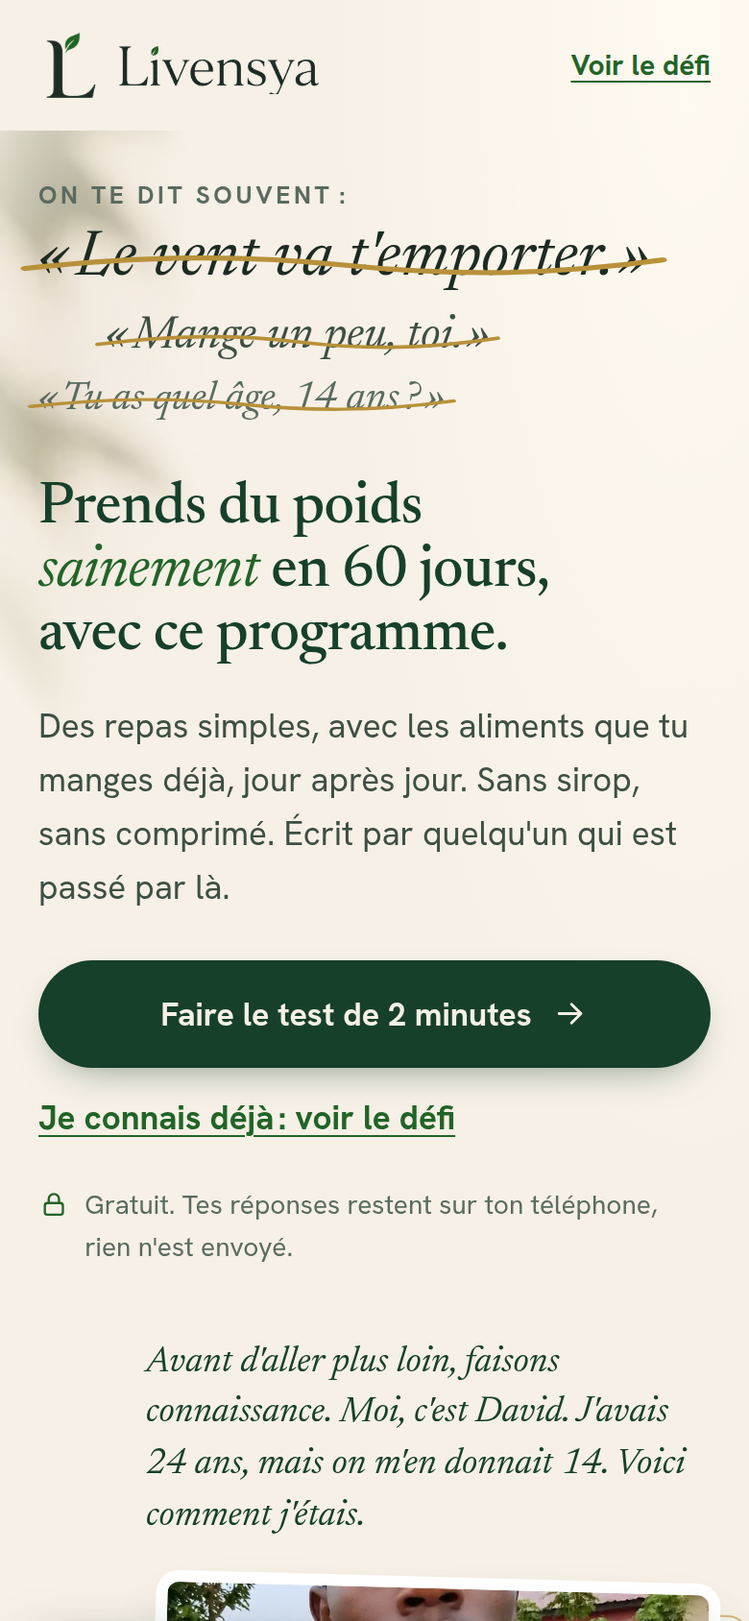
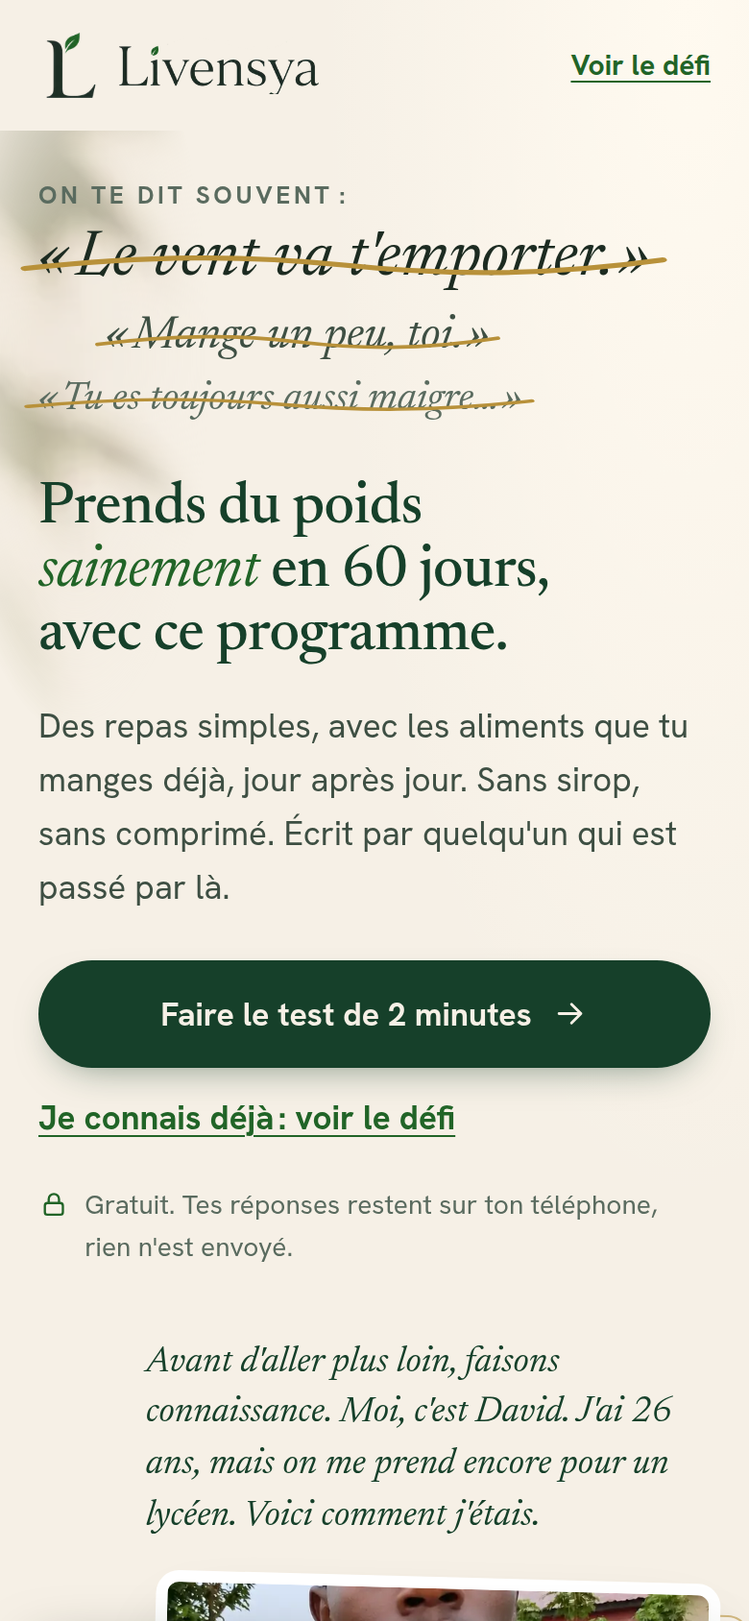
Livensya : tunnel v4 (fidèle au livre : David 26 ans ; widget de paiement Chariow en fenêtre, chargé en différé, avec repli)
Claude-Session: https://claude.ai/code/session_01SDp3TmwNu6wkPxHhoSS3B7

Changed region(s): [[0.1846, 0.8626, 0.9231, 0.955], [0.2154, 0.2156, 0.6769, 0.2773], [0.1538, 0.2156, 0.1846, 0.2773]]

diff --git a/sites/livensya/js/app.js b/sites/livensya/js/app.js
@@ -2,10 +2,13 @@
    ------------------------------------------------------------------
    RÉGLAGES (les seules lignes à modifier) */
 
-/* Lien de paiement Chariow du produit prd_4bisyd7x.
-   Valeur provisoire : la boutique. Lien direct probable (vu sur la boutique, à confirmer) :
-   https://ykhzgspm.mychariow.store/prd_4bisyd7x/checkout */
-const LIEN_PAIEMENT = 'https://ykhzgspm.mychariow.store';
+/* Paiement : le widget Chariow (dans la carte de l'offre) est la voie principale.
+   LIEN_PAIEMENT ne sert que de repli si le widget n'a pas pu se charger (réseau, bloqueur) :
+   page de paiement Chariow du produit prd_4bisyd7x (vérifiée : elle répond). */
+const LIEN_PAIEMENT = 'https://ykhzgspm.mychariow.store/prd_4bisyd7x/checkout';
+const WIDGET_JS = 'https://js.chariowcdn.com/v1/widget.min.js';
+const WIDGET_CSS = 'https://js.chariowcdn.com/v1/widget.min.css';
+const DELAI_REPLI_MS = 6000;
 
 /* Vidéo faceless (HyperFrames) : laisse vide tant que le fichier n'existe pas.
    Exemple : 'videos/defi-60-jours.mp4' et 'videos/affiche.webp' */
@@ -48,7 +51,52 @@ function envoyerLead(donnees) {
   var ICONE_COCHE = '<svg viewBox="0 0 24 24" aria-hidden="true"><path d="M5 12.5l4.5 4.5L19 7.5"/></svg>';
   function icone(id) { return '<svg class="icone" aria-hidden="true"><use href="#' + id + '"/></svg>'; }
 
-  /* ---------------- Liens d'achat ---------------- */
+  /* ---------------- Widget de paiement Chariow ---------------- */
+  var widget = { charge: false, pret: false, attente: [] };
+  function boutonWidget() { var w = document.getElementById('chariow-widget'); return w && w.querySelector('button'); }
+  function chargerWidget() {
+    if (widget.charge) return;
+    widget.charge = true;
+    var w = document.getElementById('chariow-widget');
+    if (!w) return;
+    if (reduit) w.setAttribute('data-cta-animation', 'none');
+    var css = document.createElement('link'); css.rel = 'stylesheet'; css.href = WIDGET_CSS; document.head.appendChild(css);
+    var js = document.createElement('script'); js.src = WIDGET_JS; js.async = true; document.body.appendChild(js);
+    var mo = new MutationObserver(function () {
+      var b = boutonWidget();
+      if (!b || widget.pret) return;
+      widget.pret = true; mo.disconnect();
+      document.getElementById('paiement').classList.add('pret');
+      widget.attente.splice(0).forEach(function (f) { f(); });
+    });
+    mo.observe(w, { childList: true, subtree: true });
+    /* InitiateCheckout : au clic sur le bouton du widget (anti double-clic dans tracking.js) */
+    w.addEventListener('click', function (e) {
+      if (e.target.closest && e.target.closest('button')) suivi.initiateCheckout(PRODUIT);
+    }, true);
+  }
+  function quandWidgetPret(f, siEchec) {
+    if (widget.pret) { f(); return; }
+    var fait = false;
+    widget.attente.push(function () { if (!fait) { fait = true; f(); } });
+    setTimeout(function () { if (!fait) { fait = true; siEchec(); } }, DELAI_REPLI_MS);
+  }
+  function ouvrirPaiement(declencheur) {
+    chargerWidget();
+    var carte = document.getElementById('paiement');
+    if (carte) carte.scrollIntoView({ behavior: reduit ? 'auto' : 'smooth', block: 'center' });
+    if (declencheur) declencheur.setAttribute('aria-busy', 'true');
+    quandWidgetPret(function () {
+      if (declencheur) declencheur.removeAttribute('aria-busy');
+      setTimeout(function () { var b = boutonWidget(); if (b) b.click(); }, reduit ? 0 : 650);
+    }, function () {
+      /* Repli : page de paiement Chariow */
+      suivi.initiateCheckout(PRODUIT);
+      location.href = lienAchat();
+    });
+  }
+
+  /* Liens d'achat : tous mènent au widget (défilement doux puis ouverture du paiement) */
   function lienAchat() {
     var url = LIEN_PAIEMENT;
     var p = new URLSearchParams(location.search), garder = [];
@@ -60,14 +108,17 @@ function envoyerLead(donnees) {
     (racine || document).querySelectorAll('[data-achat]').forEach(function (a) {
       if (a.dataset.branche) return;
       a.dataset.branche = '1';
+      a.href = '#paiement';
+      a.addEventListener('click', function (e) { e.preventDefault(); ouvrirPaiement(a); });
+    });
+    (racine || document).querySelectorAll('[data-achat-direct]').forEach(function (a) {
+      if (a.dataset.branche) return;
+      a.dataset.branche = '1';
       a.href = lienAchat();
       a.addEventListener('click', function (e) {
         var id = suivi.initiateCheckout(PRODUIT);
-        if (id === null) { e.preventDefault(); return; } /* double-clic ignoré */
-        if (suivi.actif) { /* laisse 300 ms au Pixel pour partir */
-          e.preventDefault(); a.setAttribute('aria-busy', 'true');
-          setTimeout(function () { location.href = a.href; }, 300);
-        }
+        if (id === null) { e.preventDefault(); return; }
+        if (suivi.actif) { e.preventDefault(); setTimeout(function () { location.href = a.href; }, 300); }
       });
     });
   }
@@ -101,7 +152,7 @@ function envoyerLead(donnees) {
       titre: function () { return avecPrenom('Enchanté, ', '. ') + 'Depuis quand tu te trouves mince ?'; },
       options: [['enfance', "Depuis toujours, depuis l'enfance"], ['ado', "Depuis l'adolescence"], ['annees', 'Depuis quelques années'], ['recent', "Depuis peu : j'ai perdu du poids sans savoir pourquoi"]] },
     { id: 'phrases', type: 'multi', titre: "Qu'est-ce qu'on te dit le plus souvent ?", aide: 'Choisis tout ce que tu entends.', citations: true,
-      options: [['vent', '« Le vent va t\'emporter. »'], ['mange', '« Mange un peu, toi. »'], ['malade', '« Tu es malade ? »'], ['age', '« Tu as quel âge, 15 ans ? »'], ['maison', '« On ne te donne pas à manger chez toi ? »'], ['rien', "On ne me dit rien, mais je le pense"], ['autre', 'Autre chose']], autre: true },
+      options: [['vent', '« Le vent va t\'emporter. »'], ['mange', '« Mange un peu, toi. »'], ['malade', '« Tu es malade ? »'], ['age', '« On dirait que tu n\'as pas changé depuis le lycée. »'], ['maison', '« On ne te donne pas à manger chez toi ? »'], ['rien', "On ne me dit rien, mais je le pense"], ['autre', 'Autre chose']], autre: true },
     { id: 'blessure', type: 'texte',
       encart: function () { return '<strong>Je comprends.</strong> Moi aussi, j\'ai entendu ces phrases, presque mot pour mot.'; },
       titre: "Quelle est la remarque la plus blessante qu'on t'ait faite, ou le moment le plus gênant que tu as vécu à cause de ton poids ?",
@@ -277,7 +328,7 @@ function envoyerLead(donnees) {
 
   function afficherResultat() {
     var DEPUIS = { enfance: "Depuis l'enfance, tu es le plus mince de la pièce.", ado: "Depuis l'adolescence, tu es « le mince », « la mince ».", annees: 'Depuis quelques années, tu te trouves trop mince.', recent: 'Tu as perdu du poids récemment, sans savoir pourquoi.' };
-    var PHR = { vent: '« Le vent va t\'emporter »', mange: '« Mange un peu »', malade: '« Tu es malade ? »', age: '« Tu as quel âge ? »', maison: '« On ne te donne pas à manger ? »' };
+    var PHR = { vent: '« Le vent va t\'emporter »', mange: '« Mange un peu »', malade: '« Tu es malade ? »', age: '« On dirait que tu n\'as pas changé depuis le lycée »', maison: '« On ne te donne pas à manger ? »' };
     var MIR = { evite: 'Alors tu évites les photos.', cache: 'Alors tu caches ton corps sous des habits larges.', compare: 'Alors tu te compares aux autres, souvent.', ok: 'Ça va, mais tu sens que tu pourrais être mieux dans ton corps.' };
     var ESS = {
       forcer: 'Tu as déjà essayé de te forcer à manger plus. Si ça n\'a pas suffi, ce n\'est pas un manque de volonté : manger plus, sans structure, ne marche pas pour tout le monde. Pour moi non plus, ça n\'a pas marché.',
@@ -411,6 +462,11 @@ function envoyerLead(donnees) {
       var a = barre.querySelector('a'); if (a) a.tabIndex = montrer ? 0 : -1;
     });
     cibles.forEach(function (c) { var el = document.querySelector(c); if (el) { el.dataset.zone = c; ob.observe(el); } });
+
+    var contenu = document.getElementById('contenu');
+    if (contenu) new IntersectionObserver(function (es, o) {
+      if (es[0].isIntersecting) { chargerWidget(); o.disconnect(); }
+    }, { rootMargin: '400px 0px' }).observe(contenu);
 
     var fin = document.querySelector('.final');
     if (fin) new IntersectionObserver(function (es, o) {

diff --git a/sites/livensya/index.html b/sites/livensya/index.html
@@ -58,7 +58,7 @@
       <ul class="mots" aria-label="Phrases qu'on te dit souvent">
         <li>« Le vent va t'emporter. »</li>
         <li>« Mange un peu, toi. »</li>
-        <li>« Tu as quel âge, 14 ans ? »</li>
+        <li>« Tu es toujours aussi maigre… »</li>
       </ul>
       <div class="heros__suite">
         <h1 id="titre-heros">Prends du poids <em>sainement</em> en 60 jours, avec ce programme.</h1>
@@ -71,10 +71,10 @@
       </div>
     </div>
     <div class="heros__photo">
-      <p class="presentation">Avant d'aller plus loin, faisons connaissance. <span data-si-prenom>Moi, c'est <b data-prenom></b>. </span>J'avais 24 ans, mais on m'en donnait 14. Voici comment j'étais.</p>
+      <p class="presentation">Avant d'aller plus loin, faisons connaissance. <span data-si-prenom>Moi, c'est <b data-prenom></b>. </span>J'ai 26 ans, mais on me prend encore pour un lycéen. Voici comment j'étais.</p>
       <figure class="tirage">
-        <img src="images/enock-24-ans-480.webp" srcset="images/enock-24-ans-480.webp 480w, images/enock-24-ans-860.webp 860w" sizes="(min-width: 900px) 420px, 78vw" width="480" height="535" alt="Photo d'avant, à 24 ans, torse nu devant une maison : épaules étroites, bras très fins." fetchpriority="high">
-        <figcaption><strong>Moi, à 24 ans.</strong></figcaption>
+        <img src="images/photo-avant-480.webp" srcset="images/photo-avant-480.webp 480w, images/photo-avant-860.webp 860w" sizes="(min-width: 900px) 420px, 78vw" width="480" height="535" alt="Photo d'avant, torse nu devant une maison : épaules étroites, bras très fins." fetchpriority="high">
+        <figcaption><strong>Avant.</strong></figcaption>
       </figure>
     </div>
   </div>
@@ -116,17 +116,17 @@
   <div class="conteneur histoire__grille">
     <div class="photos-duo revele">
       <figure class="tirage">
-        <img src="images/enock-24-ans-480.webp" width="480" height="535" loading="lazy" decoding="async" alt="Photo d'avant, à 24 ans, très mince.">
-        <figcaption><strong>Avant</strong>À 24 ans, on m'en donnait 14.</figcaption>
+        <img src="images/photo-avant-480.webp" width="480" height="535" loading="lazy" decoding="async" alt="Photo d'avant, très mince.">
+        <figcaption><strong>Avant</strong>« On dirait que tu n'as pas changé depuis le lycée. »</figcaption>
       </figure>
       <figure class="tirage">
-        <img src="images/enock-apres-480.webp" srcset="images/enock-apres-480.webp 480w, images/enock-apres-853.webp 853w" sizes="(min-width: 900px) 280px, 45vw" width="480" height="457" loading="lazy" decoding="async" alt="Photo d'après, souriant, en veste verte et chemise blanche.">
+        <img src="images/photo-aujourdhui-480.webp" srcset="images/photo-aujourdhui-480.webp 480w, images/photo-aujourdhui-853.webp 853w" sizes="(min-width: 900px) 280px, 45vw" width="480" height="457" loading="lazy" decoding="async" alt="Photo d'après, souriant, en veste verte et chemise blanche.">
         <figcaption><strong>Aujourd'hui</strong>Après le programme.</figcaption>
       </figure>
     </div>
     <div class="recit revele">
       <p class="etiquette">Mon histoire</p>
-      <h2 id="titre-histoire" class="titre-section">« On me donnait 14 ans. J'en avais 24. »</h2>
+      <h2 id="titre-histoire" class="titre-section">« On dirait que tu n'as pas changé depuis le lycée. »</h2>
       <!-- Histoire de David, réécrite à la 1re personne d'après la préface du livre « Défi 60 jours ». -->
       <p class="lettrine">Depuis l'adolescence, je suis très mince. De l'extérieur, j'avais une vie normale : un travail, une famille, des amis. Mais les remarques revenaient sans cesse. « Tu ne manges pas assez ou quoi ? » « Tu es toujours aussi maigre… » « On dirait que tu n'as pas changé depuis le lycée. »</p>
       <p>Au début, je souriais. Je répondais avec humour. Mais ces phrases ne disparaissaient pas. Elles restaient. Sans m'en rendre compte, j'ai commencé à choisir des vêtements plus amples, à éviter certaines situations, à me mettre toujours à l'arrière sur les photos.</p>
@@ -314,7 +314,12 @@
         <li><svg class="icone" aria-hidden="true"><use href="#i-coche"/></svg><span>Aliments d'ici, aucun complément à acheter</span></li>
         <li><svg class="icone" aria-hidden="true"><use href="#i-coche"/></svg><span>Accès à vie, sur ton téléphone</span></li>
       </ul>
-      <a class="bouton bouton--plein" href="https://ykhzgspm.mychariow.store" data-achat>Rejoindre le défi maintenant <svg class="icone" aria-hidden="true"><use href="#i-fleche"/></svg></a>
+      <!-- PAIEMENT : widget officiel Chariow (style « tap » : un bouton qui ouvre le paiement dans une fenêtre, sans quitter la page).
+           Le script est chargé une seule fois, en différé, par js/app.js (quand l'offre approche ou au premier clic d'achat). -->
+      <div class="paiement" id="paiement">
+        <div id="chariow-widget" data-product-id="prd_4bisyd7x" data-store-domain="ykhzgspm.mychariow.store" data-style="tap" data-border-style="rounded" data-cta-width="md" data-cta-animation="shine" data-locale="fr" data-primary-color="#16402A" data-background-color="#FFFCF6" data-custom-cta-text="Commencer le défi"></div>
+        <a class="bouton bouton--plein paiement__repli" href="https://ykhzgspm.mychariow.store/prd_4bisyd7x/checkout" data-achat-direct>Commencer le défi <svg class="icone" aria-hidden="true"><use href="#i-fleche"/></svg></a>
+      </div>
       
       <p class="micro"><svg class="icone" aria-hidden="true"><use href="#i-cadenas"/></svg>Paiement sécurisé par Chariow. Livensya ne voit jamais ton code Mobile Money. Accès par e-mail en quelques minutes. Pas reçu ? Écris-nous sur WhatsApp.</p>
       <div class="moyens" aria-label="Moyens de paiement acceptés"><span>MTN MoMo</span><span>Moov Money</span><span>Orange Money</span><span>Wave</span><span>Carte bancaire</span></div>
@@ -326,11 +331,11 @@
     <div class="revele">
       <p class="etiquette">Payer avec Mobile Money, en 5 étapes</p>
       <ol class="etapes">
-        <li><div><b>Appuie sur « Rejoindre le défi »</b><span>Tu arrives sur la page de paiement Chariow.</span></div></li>
+        <li><div><b>Appuie sur « Commencer le défi »</b><span>Le paiement Chariow s'ouvre dans une fenêtre, sans quitter la page.</span></div></li>
         <li><div><b>Écris ton nom, ton e-mail et ton numéro</b><span>Mets un e-mail que tu ouvres vraiment : c'est là que tu reçois le défi.</span></div></li>
         <li><div><b>Choisis ton moyen de paiement</b><span>MTN, Moov, Orange, Wave ou carte bancaire.</span></div></li>
         <li><div><b>Valide sur ton téléphone</b><span>Tu reçois une demande de confirmation : tape ton code secret, comme pour un transfert.</span></div></li>
-        <li><div><b>Ouvre ton e-mail</b><span>Ton accès arrive en quelques minutes. Pas là ? Regarde dans les spams ou « Promotions ».</span></div></li>
+        <li><div><b>Ouvre ton e-mail</b><span>Une fois le paiement validé, tu arrives sur ta page d'achat Chariow, et ton accès arrive par e-mail en quelques minutes. Pas là ? Regarde dans les spams ou « Promotions ».</span></div></li>
       </ol>
       <div class="honnete">
         <p><strong>Ce qu'on ne te promettra pas :</strong> un nombre de kilos. Personne ne peut te le garantir honnêtement. Ce qui change les choses, c'est d'appliquer le programme chaque jour pendant 60 jours.</p>

diff --git a/sites/livensya/css/style.css b/sites/livensya/css/style.css
@@ -446,6 +446,19 @@ a:hover { text-decoration-thickness: 2px; }
 .pied__contact .icone, .pied__contact .icone-wa { width: 18px; height: 18px; }
 .mention-histoire { font-size: .8125rem; color: var(--sauge); font-style: italic; margin: 4px 0 0; }
 
+/* Widget de paiement Chariow (isolé : seules ces règles le retouchent) */
+.paiement { margin-top: 4px; }
+.paiement.pret .paiement__repli { display: none; }
+#chariow-widget { font-family: var(--sans) !important; }
+#chariow-widget:empty { display: none; }
+#chariow-widget .cw-button-base { font-family: var(--sans) !important; font-weight: 700 !important; font-size: 1.0625rem !important; min-height: 56px !important; height: auto !important; padding: 14px 28px !important; border-radius: 999px !important; box-shadow: 0 8px 20px -10px rgba(22,64,42,.6); transition: background-color .35s ease, transform .2s ease, opacity .35s ease !important; }
+#chariow-widget .cw-button-base span { font-weight: 700 !important; color: var(--creme) !important; }
+#chariow-widget .cw-button-base, #chariow-widget .cw-button-base:hover, #chariow-widget .cw-button-base:active { opacity: 1 !important; }
+#chariow-widget .cw-button-base:hover { background-color: var(--foret-3) !important; }
+#chariow-widget .cw-button-base:active { transform: translateY(1px); background-color: var(--foret-2) !important; }
+#chariow-widget .cw-button-base:focus-visible { outline: 3px solid var(--feuille); outline-offset: 3px; }
+.cw-modal-content { border-radius: 18px !important; }
+
 /* Apparitions au défilement */
 .js .revele { opacity: 0; transform: translateY(18px); transition: opacity 1.1s cubic-bezier(.2,.7,.2,1), transform 1.1s cubic-bezier(.2,.7,.2,1); }
 .js .revele.vu { opacity: 1; transform: none; }

diff --git a/sites/livensya/LISEZMOI.md b/sites/livensya/LISEZMOI.md
@@ -2,6 +2,20 @@
 
 Site statique (HTML, CSS, un peu de JavaScript). Aucun serveur, aucune base de données. Poids mesuré au premier chargement sur téléphone : environ 150 Ko (moins de 500 Ko une fois toutes les images chargées ; limite fixée : 1,5 Mo).
 
+## Version 4 : fidèle au livre et paiement sans quitter la page
+- **Âge et phrases du livre** : David a 26 ans (« J'ai 26 ans, mais on me prend encore pour un lycéen »). Plus aucune mention « 24 ans / 14 ans ». Titre de l'histoire : « On dirait que tu n'as pas changé depuis le lycée. » La 3e phrase barrée du héros devient « Tu es toujours aussi maigre… ». Photos légendées « Avant » / « Aujourd'hui », fichiers renommés `photo-avant-*` et `photo-aujourdhui-*`.
+- **Widget de paiement Chariow (style « tap »)** dans la carte de l'offre, à la place du bouton :
+  - c'est un bouton « Commencer le défi » aux couleurs du site qui ouvre le paiement Chariow dans une fenêtre, par-dessus la page ;
+  - le script (`widget.min.js` + `widget.min.css`, environ 110 Ko) n'est chargé qu'une fois, quand on approche de « Ce que tu reçois », ou au premier clic d'achat ; rien au chargement de la page ;
+  - tous les autres boutons d'achat (héros, histoire, résultat, final, barre collante) font défiler doucement jusqu'à l'offre puis ouvrent le paiement tout seuls ;
+  - si le widget n'a pas pu se charger après 6 s (réseau, bloqueur), on ouvre la page de paiement Chariow (`LIEN_PAIEMENT`, https://ykhzgspm.mychariow.store/prd_4bisyd7x/checkout, vérifiée) ;
+  - sans JavaScript, un bouton classique vers cette même page reste visible.
+- **Pourquoi « tap » et pas « frame »** : « frame » affiche directement tout le formulaire de paiement dans la page (un grand cadre, chargé d'office, sans bouton) : plus lourd en 3G et moins rassurant avant d'avoir lu l'offre. « tap » montre un bouton et n'ouvre le paiement qu'au clic, dans une fenêtre (presque plein écran sur téléphone, fermable par une croix).
+- **Réglages du widget** (attributs de `#chariow-widget` dans `index.html`) : `data-style="tap"`, `data-primary-color="#16402A"` (vert forêt, plus de vert citron), `data-background-color="#FFFCF6"`, `data-locale="fr"`, `data-custom-cta-text="Commencer le défi"`, `data-cta-width="md"` (56 px, plus facile à toucher que `xs`), animation « shine » (coupée si le téléphone demande moins d'animations). Le CSS du site retouche seulement le bouton (pilule, police, couleur), rien d'autre.
+- **Suivi** : `InitiateCheckout` part au clic sur le bouton du widget (une fois par clic, clics répétés en moins de 2 s ignorés, `eventID` unique). Toujours **pas de Purchase dans le navigateur**.
+- **Après l'achat** : le widget redirige vers la page d'achat Chariow (`https://ykhzgspm.mychariow.store/purchase/<id>`), **pas vers `merci.html`**. `merci.html` ne servira que si tu configures une redirection Chariow vers elle.
+- **Pour la future API Conversions** : à la fin du paiement, le widget reçoit un message `chariow-purchase-completed` qui contient le `purchaseId`. C'est cet identifiant qui servira d'`event_id` au Purchase envoyé côté serveur (webhook de vente Chariow), pour qu'il ne compte jamais deux fois.
+
 ## Version 2 (retours d'Enock)
 - **Narrateur** : la page ne parle plus d'Enock. Le narrateur est le personnage du livre. Son prénom est dans **une seule constante**, `PRENOM_NARRATEUR` en haut de `js/app.js` (valeur : `'David'`, le narrateur du livre), et la même ligne en bas de `merci.html`. Tous les éléments `data-prenom` se remplissent seuls. Si tu laisses `''`, le texte devient neutre (« L'auteur du défi ») et la phrase « Moi, c'est … » disparaît.
 - **Histoire** : l'histoire de David (préface du livre), réécrite à la 1re personne, avec la mention « L'histoire de David est inspirée de situations réelles. »
@@ -39,13 +53,13 @@ Aperçu de la vidéo et du suivi : ajoute `?apercu=1` à l'adresse (la section v
 Tout est en haut de `js/app.js` :
 
 ```js
-const LIEN_PAIEMENT = 'https://ykhzgspm.mychariow.store';   // lien de paiement Chariow
+const LIEN_PAIEMENT = 'https://ykhzgspm.mychariow.store/prd_4bisyd7x/checkout';   // repli si le widget ne charge pas
 const VIDEO_SRC = '';        // ex. 'videos/defi-60-jours.mp4'
 const VIDEO_AFFICHE = '';    // ex. 'videos/affiche.webp'
 ```
 
 - **Prénom du narrateur** : `const PRENOM_NARRATEUR = 'David';` (et la même ligne dans `merci.html`).
-- **Lien de paiement** : remplace par le lien direct du produit. Sur ta boutique, le paiement du produit est à l'adresse `https://ykhzgspm.mychariow.store/prd_4bisyd7x/checkout` : vérifie qu'il marche, puis colle-le. Les paramètres publicitaires (`utm_…`, `fbclid`) de l'adresse d'arrivée sont transmis automatiquement à Chariow.
+- **Lien de repli** : `LIEN_PAIEMENT` pointe déjà vers la page de paiement du produit. Les paramètres publicitaires (`utm_…`, `fbclid`) de l'adresse d'arrivée sont transmis automatiquement à Chariow.
 - **Vidéo faceless** : dépose le fichier dans un dossier `videos/` (MP4 H.264, format vertical 9:16, idéalement moins de 8 Mo), puis remplis `VIDEO_SRC`. Tant que c'est vide, la section est invisible pour les visiteurs. Rien ne se charge avant le clic sur « Lire la vidéo ».
 - **Textes** : directement dans `index.html` et `merci.html`. Garde le tutoiement, pas de tiret cadratin, et pas de promesse de kilos.
 - **Prix** : une seule fois, dans la carte de l'offre de `index.html` : cherche `999`.
@@ -79,12 +93,12 @@ Un seul envoi, côté serveur, déclenché par la vente réelle :
 4. Pas de `Purchase` dans `merci.html` (expliqué en commentaire dans la page) : elle peut être rechargée ou ouverte sans achat.
 
 ## Ce qu'Enock doit fournir ou valider
-1. **L'histoire de David** telle qu'écrite sur la page (réécriture à la 1re personne de la préface du livre). Âge non cité dans l'histoire ; le héros garde « 24 ans, on m'en donnait 14 » comme demandé, alors que le livre dit 26 ans.
+1. **L'histoire de David** telle qu'écrite sur la page (réécriture à la 1re personne de la préface du livre). Âge aligné sur le livre : 26 ans.
 2. **La question du miroir** : le livre écrit « sa question n'a pas été : « Qu'est-ce que je fais mal depuis tout ce temps ? » ». J'ai compris « a été » (c'est elle qui mène à la méthode). Vérifie la phrase du livre, elle semble contenir une coquille.
-3. **Les photos avant/après** sont présentées comme celles de David (« Moi, à 24 ans »), alors que David est un personnage « inspiré de situations réelles ». Une partie des visiteurs prendra ces photos pour celles d'un vrai client : à toi de décider si tu gardes cette présentation, ou si tu ajoutes une légende du type « photos réelles d'avant et d'après ».
+3. **Les photos avant/après** sont présentées comme celles de David (« Moi, c'est David… Voici comment j'étais »), alors que David est un personnage « inspiré de situations réelles ». Une partie des visiteurs prendra ces photos pour celles d'un vrai client : à toi de décider si tu gardes cette présentation, ou si tu ajoutes une légende du type « photos réelles d'avant et d'après ».
 4. **Les phrases de David dans le test** (« Moi aussi, j'ai entendu ces phrases », « le jour où une personne que j'appréciais m'a dit qu'elle me voyait comme un frère », « Moi aussi, j'ai eu des jours sans motivation », « Pour moi non plus, ça n'a pas marché ») : alignées sur le livre (préface et carnet du jour 52).
 5. **Le prix barré 12 500 F** : à garder seulement si c'est vraiment le prix prévu après le lancement. Sur Chariow, couper le compte à rebours « renouvelé chaque jour » (fausse urgence).
-6. **Le lien de paiement direct** (`/prd_4bisyd7x/checkout`) : à confirmer puis à coller dans `LIEN_PAIEMENT`.
+6. **Un vrai test de paiement** sur ton téléphone (le paiement s'ouvre bien dans la fenêtre, Mobile Money passe, et tu arrives sur la page d'achat Chariow). Depuis notre environnement de test, le contenu du paiement est bloqué par Cloudflare : on a vérifié l'ouverture de la fenêtre, pas le formulaire.
 7. **Deux vraies captures de pages** des PDF (emplacement `EXTRAIT` prêt).
 8. **Les mockups des livres** (corps générés, « votre », « ENOCK M. ») : légendés « visuel d'illustration ». Pas de torse nu ni d'avant/après dans les pubs Meta.
 9. **L'ID du Pixel Meta** (le jeton API Conversions reste côté serveur).
